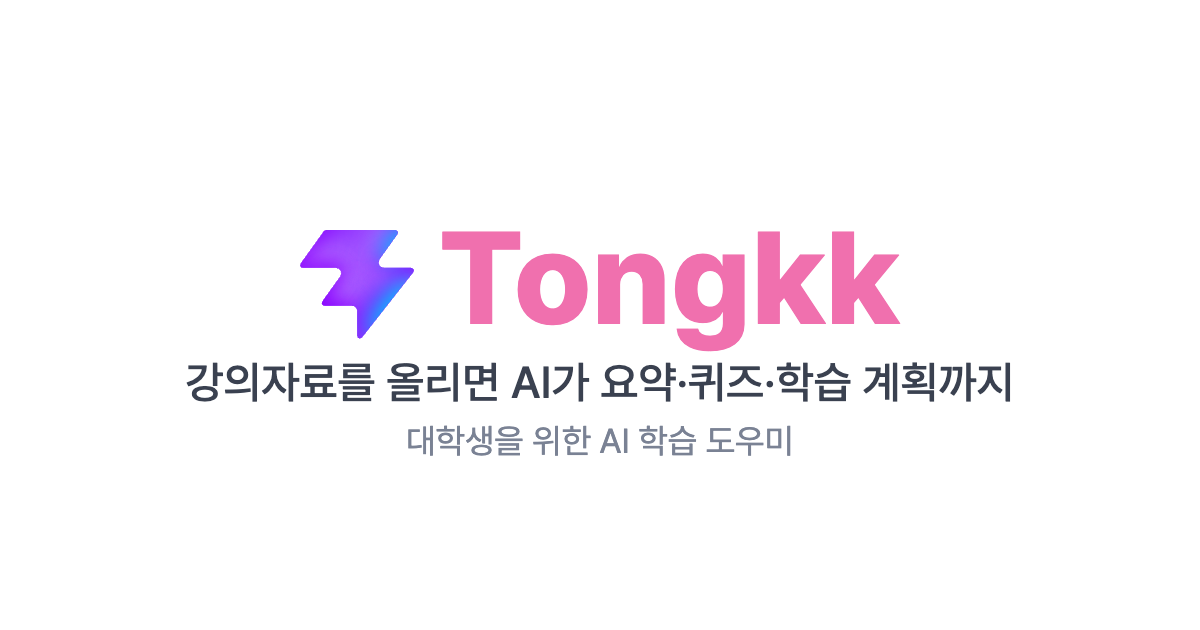
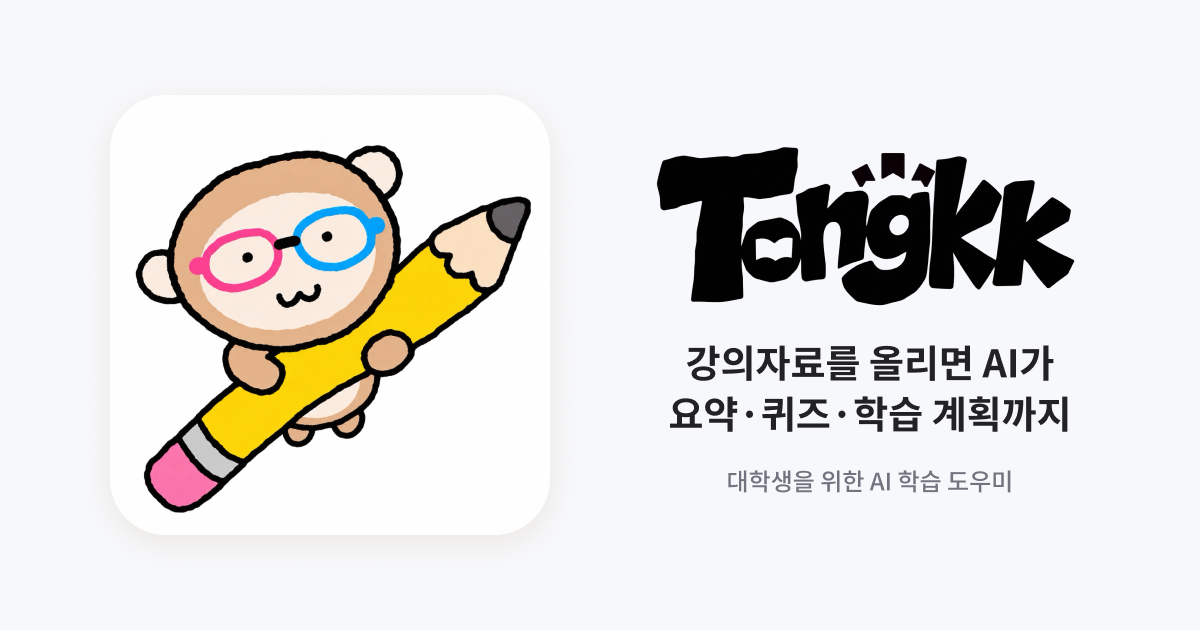
chore: 링크 미리보기 이미지·문구 교체

Changed region(s): [[0.0925, 0.2111, 0.8942, 0.8143]]

diff --git a/index.html b/index.html
@@ -30,18 +30,18 @@
     <link rel="stylesheet" href="https://cdnjs.cloudflare.com/ajax/libs/font-awesome/6.5.2/css/all.min.css" integrity="sha512-SnH5WK+bZxgPHs44uWIX+LLJAJ9/2PkPKZ5QiAj6Ta86w+fsb2TkcmfRyVX3pBnMFcV7oQPJkl9QevSCWr3W6A==" crossorigin="anonymous" referrerpolicy="no-referrer" />
     <!-- Pretendard: 윈도우 사용자도 가독성 좋게 (동적 서브셋으로 필요한 글자만 로드) -->
     <link rel="stylesheet" as="style" crossorigin href="https://cdn.jsdelivr.net/gh/orioncactus/pretendard@v1.3.9/dist/web/variable/pretendardvariable-dynamic-subset.css" />
-    <title>Tongkk — 대학생을 위한 AI 학습 도우미</title>
-    <meta name="description" content="강의자료를 올리면 AI가 요약·퀴즈·학습 계획까지 한 번에 도와드려요." />
+    <title>Tongkk — AI 학습 도우미</title>
+    <meta name="description" content="강의자료만 올리면 요약·퀴즈·학습 계획까지 끝!" />
     <meta property="og:type" content="website" />
     <meta property="og:url" content="https://tongkk.com/" />
-    <meta property="og:title" content="Tongkk — 대학생을 위한 AI 학습 도우미" />
-    <meta property="og:description" content="강의자료를 올리면 AI가 요약·퀴즈·학습 계획까지 한 번에 도와드려요." />
+    <meta property="og:title" content="Tongkk — AI 학습 도우미" />
+    <meta property="og:description" content="강의자료만 올리면 요약·퀴즈·학습 계획까지 끝!" />
     <meta property="og:image" content="https://tongkk.com/og-image.png" />
     <meta property="og:image:width" content="1200" />
     <meta property="og:image:height" content="630" />
     <meta name="twitter:card" content="summary_large_image" />
-    <meta name="twitter:title" content="Tongkk — 대학생을 위한 AI 학습 도우미" />
-    <meta name="twitter:description" content="강의자료를 올리면 AI가 요약·퀴즈·학습 계획까지 한 번에 도와드려요." />
+    <meta name="twitter:title" content="Tongkk — AI 학습 도우미" />
+    <meta name="twitter:description" content="강의자료만 올리면 요약·퀴즈·학습 계획까지 끝!" />
     <meta name="twitter:image" content="https://tongkk.com/og-image.png" />
   </head>
   <body>
